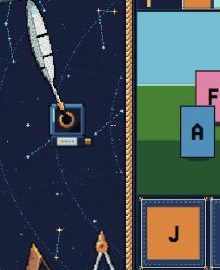
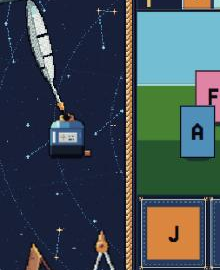
palco: tinteiro em pé redesenhado em três quartos (vidro, ombro, anel dourado e boca)

Changed region(s): [[0.2182, 0.3556, 0.4364, 0.5926]]

diff --git a/src/palco/main.js b/src/palco/main.js
@@ -118,16 +118,16 @@ function ajustarEscala() {
   const emPe = tintaAtual === 0;
   const tinteiro = objetosMesa.tinteiro;
   tinteiro.style.backgroundImage = `url(./assets/ui/ornamento-tinteiro${emPe ? '-em-pe' : ''}.png)`;
-  tinteiro.style.width = `${emPe ? 46 : OBJETOS_DA_MESA.tinteiro.largura}px`;
-  tinteiro.style.height = `${emPe ? 46 : OBJETOS_DA_MESA.tinteiro.altura}px`;
+  tinteiro.style.width = `${emPe ? 44 : OBJETOS_DA_MESA.tinteiro.largura}px`;
+  tinteiro.style.height = `${emPe ? 48 : OBJETOS_DA_MESA.tinteiro.altura}px`;
   if (emPe) {
     const x = px - 78 - folga * 0.3;
-    const y = py + 112;
+    const y = py + 121;
     tinteiro.style.left = `${x}px`;
     tinteiro.style.top = `${y}px`;
-    // A boca do tinteiro em pé fica em (21, 18) da imagem; o bico da pena, em (40, 112).
+    // A boca do tinteiro em pé fica em (21, 9) da imagem; o bico da pena, em (40, 112).
     objetosMesa.pena.style.left = `${x + 21 - 40}px`;
-    objetosMesa.pena.style.top = `${y + 18 - 112}px`;
+    objetosMesa.pena.style.top = `${y + 9 - 112}px`;
   }
   ceu.atualizar(L, A, { x: px + 240, y: py + 135 }, [{ x: px - 12, y: py - 12, w: 504, h: 294 }], {
     // A tinta sai da boca do tinteiro e escorre para dentro, por baixo do palco.

diff --git a/docs/DADOS.md b/docs/DADOS.md
@@ -74,7 +74,7 @@ O app funciona sem arte nenhuma: o que faltar vira o desenho provisório. Quando
 | Moldura em volta do palco (o fio) | `assets/ui/moldura-palco.png` | 34×34: cantos de 12 (o nó), trecho de 10 no meio que se repete (o fio) |
 | Papel do mapa celeste (em volta) | `assets/ui/fundo-palco.png` | ladrilho que se repete (64×64 hoje; qualquer tamanho serve). Anéis, estrelas e tinta são do código. |
 | A pena (esquerda, no meio) | `assets/ui/ornamento-pena.png` | 44×116; o bico fica em (40, 112), dentro da poça |
-| O tinteiro em pé (tinta 0), com a pena mergulhada | `assets/ui/ornamento-tinteiro-em-pe.png` | 46×46; a boca fica em (21, 18) |
+| O tinteiro em pé (tinta 0), com a pena mergulhada | `assets/ui/ornamento-tinteiro-em-pe.png` | 44×48 (três quartos, visto de cima); a boca fica em (21, 9) |
 | O tinteiro tombado, visto de cima, com a rolha caída (tinta 1 a 6) | `assets/ui/ornamento-tinteiro.png` | 64×40; a tinta sai da boca, em (62, 19), virada para o palco |
 | O mapa (esquerda, saindo pelo alto) | `assets/ui/ornamento-mapa.png` | 170×124 |
 | Esquadro, compasso e lápis (esquerda, embaixo) | `assets/ui/ornamento-instrumentos.png` | 124×104 |

diff --git a/docs/DECISOES.md b/docs/DECISOES.md
@@ -351,3 +351,4 @@ Cada decisão com o motivo, em linguagem simples. Atualizado a cada marco.
 - **Do 1 em diante, ele tombou:** o 1 é a primeira gota (o antigo 0), e cada nível seguinte é o antigo nível anterior. O 6 é a mancha maior (o antigo 5).
 - Uma campanha nova começa no 0: a história ainda não começou a se apagar.
 - Trocar entre 0 e 1 troca a imagem e reposiciona o tinteiro e a pena na hora.
+- (27/11) O tinteiro em pé "puramente de cima" parecia uma tela de TV (um quadrado escuro com um aro). Foi redesenhado em **três quartos vistos de cima**, o mesmo ponto de vista do tombado: face da frente de vidro com o rótulo e a tinta só no fundo, ombro arredondado subindo até o gargalo, anel dourado e a boca vista como uma elipse escura.
